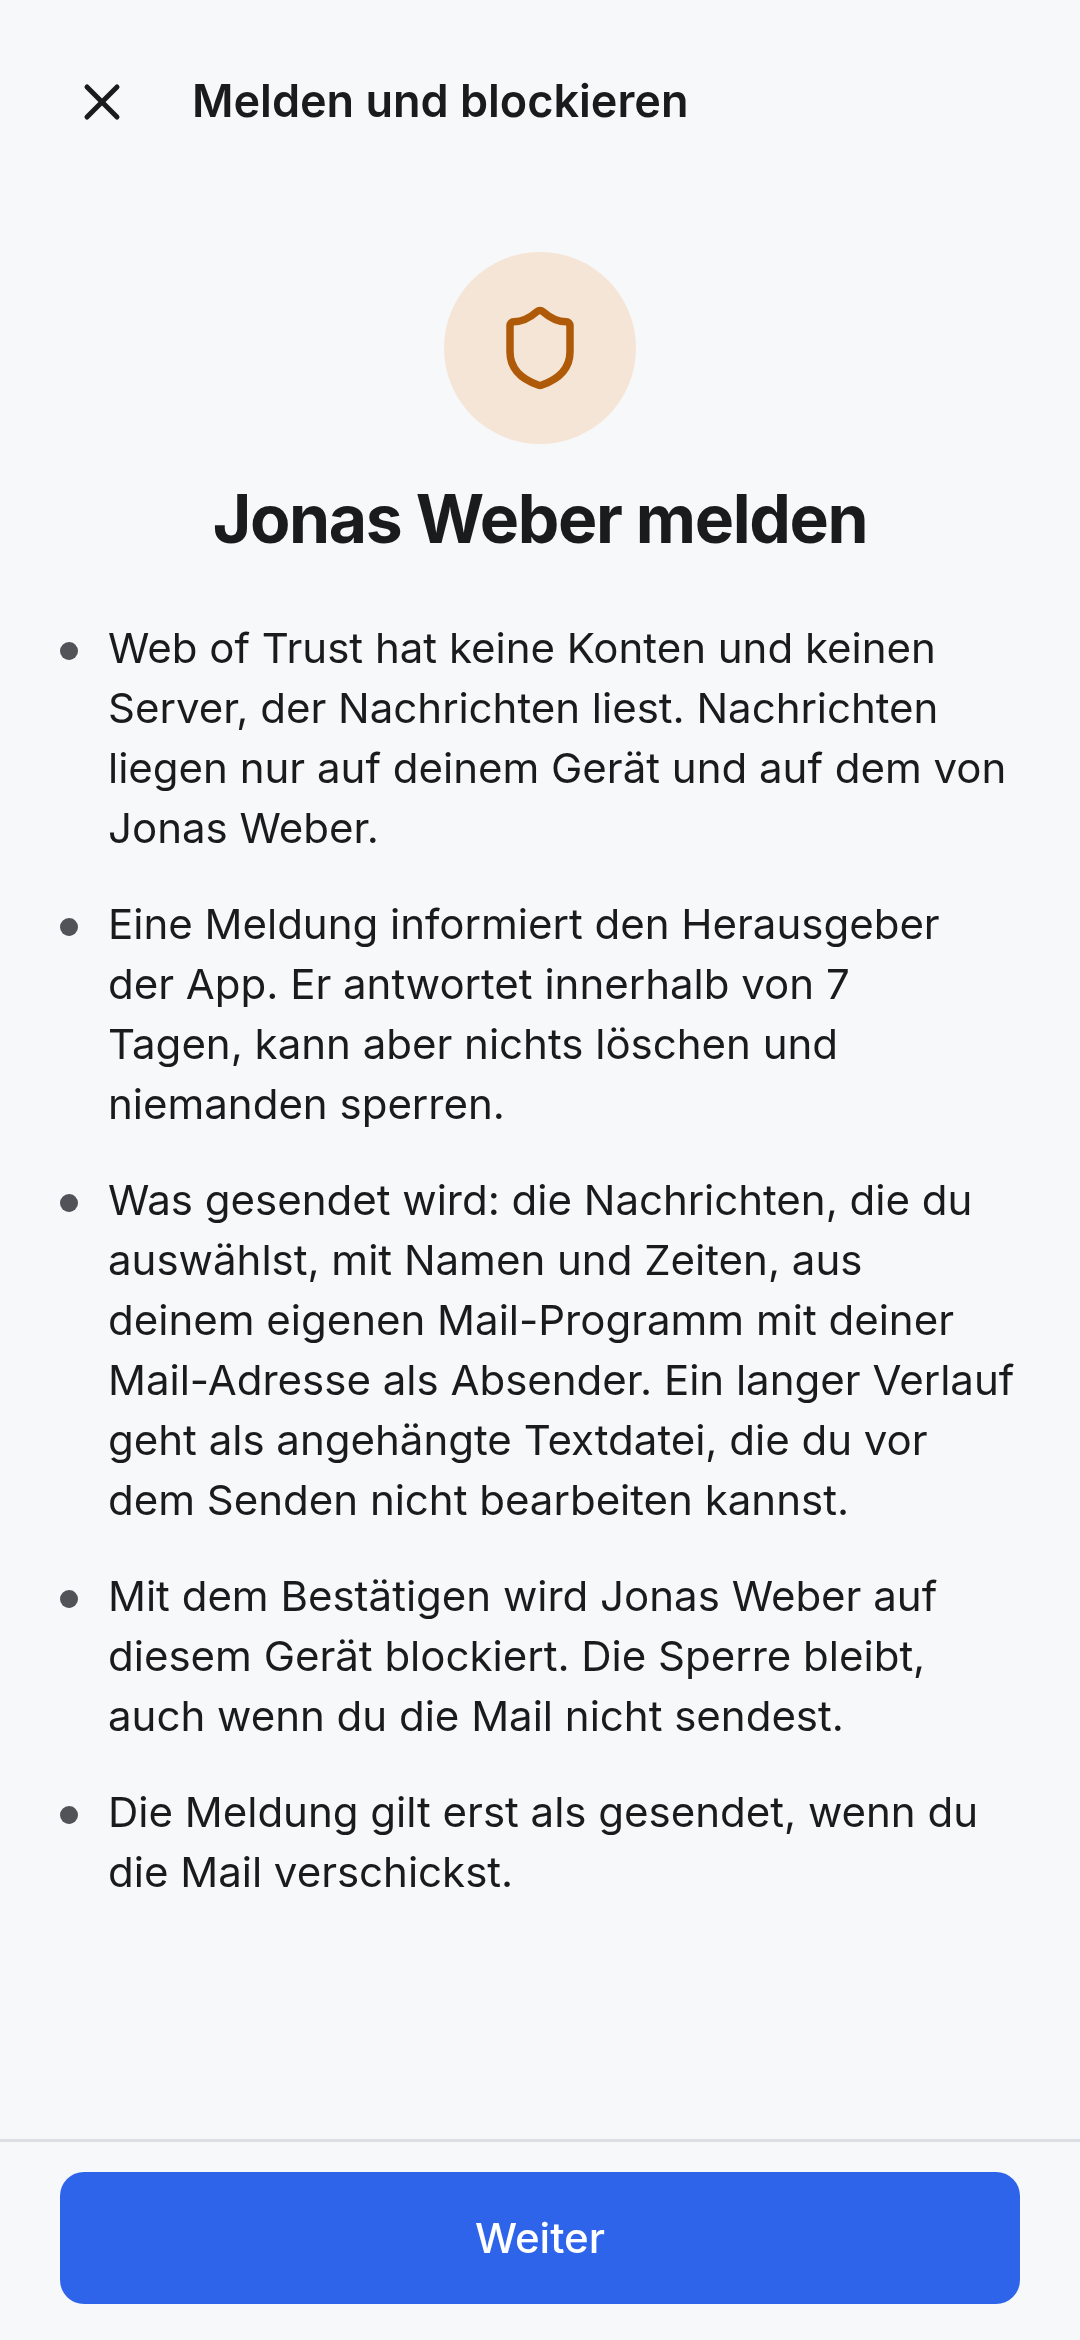
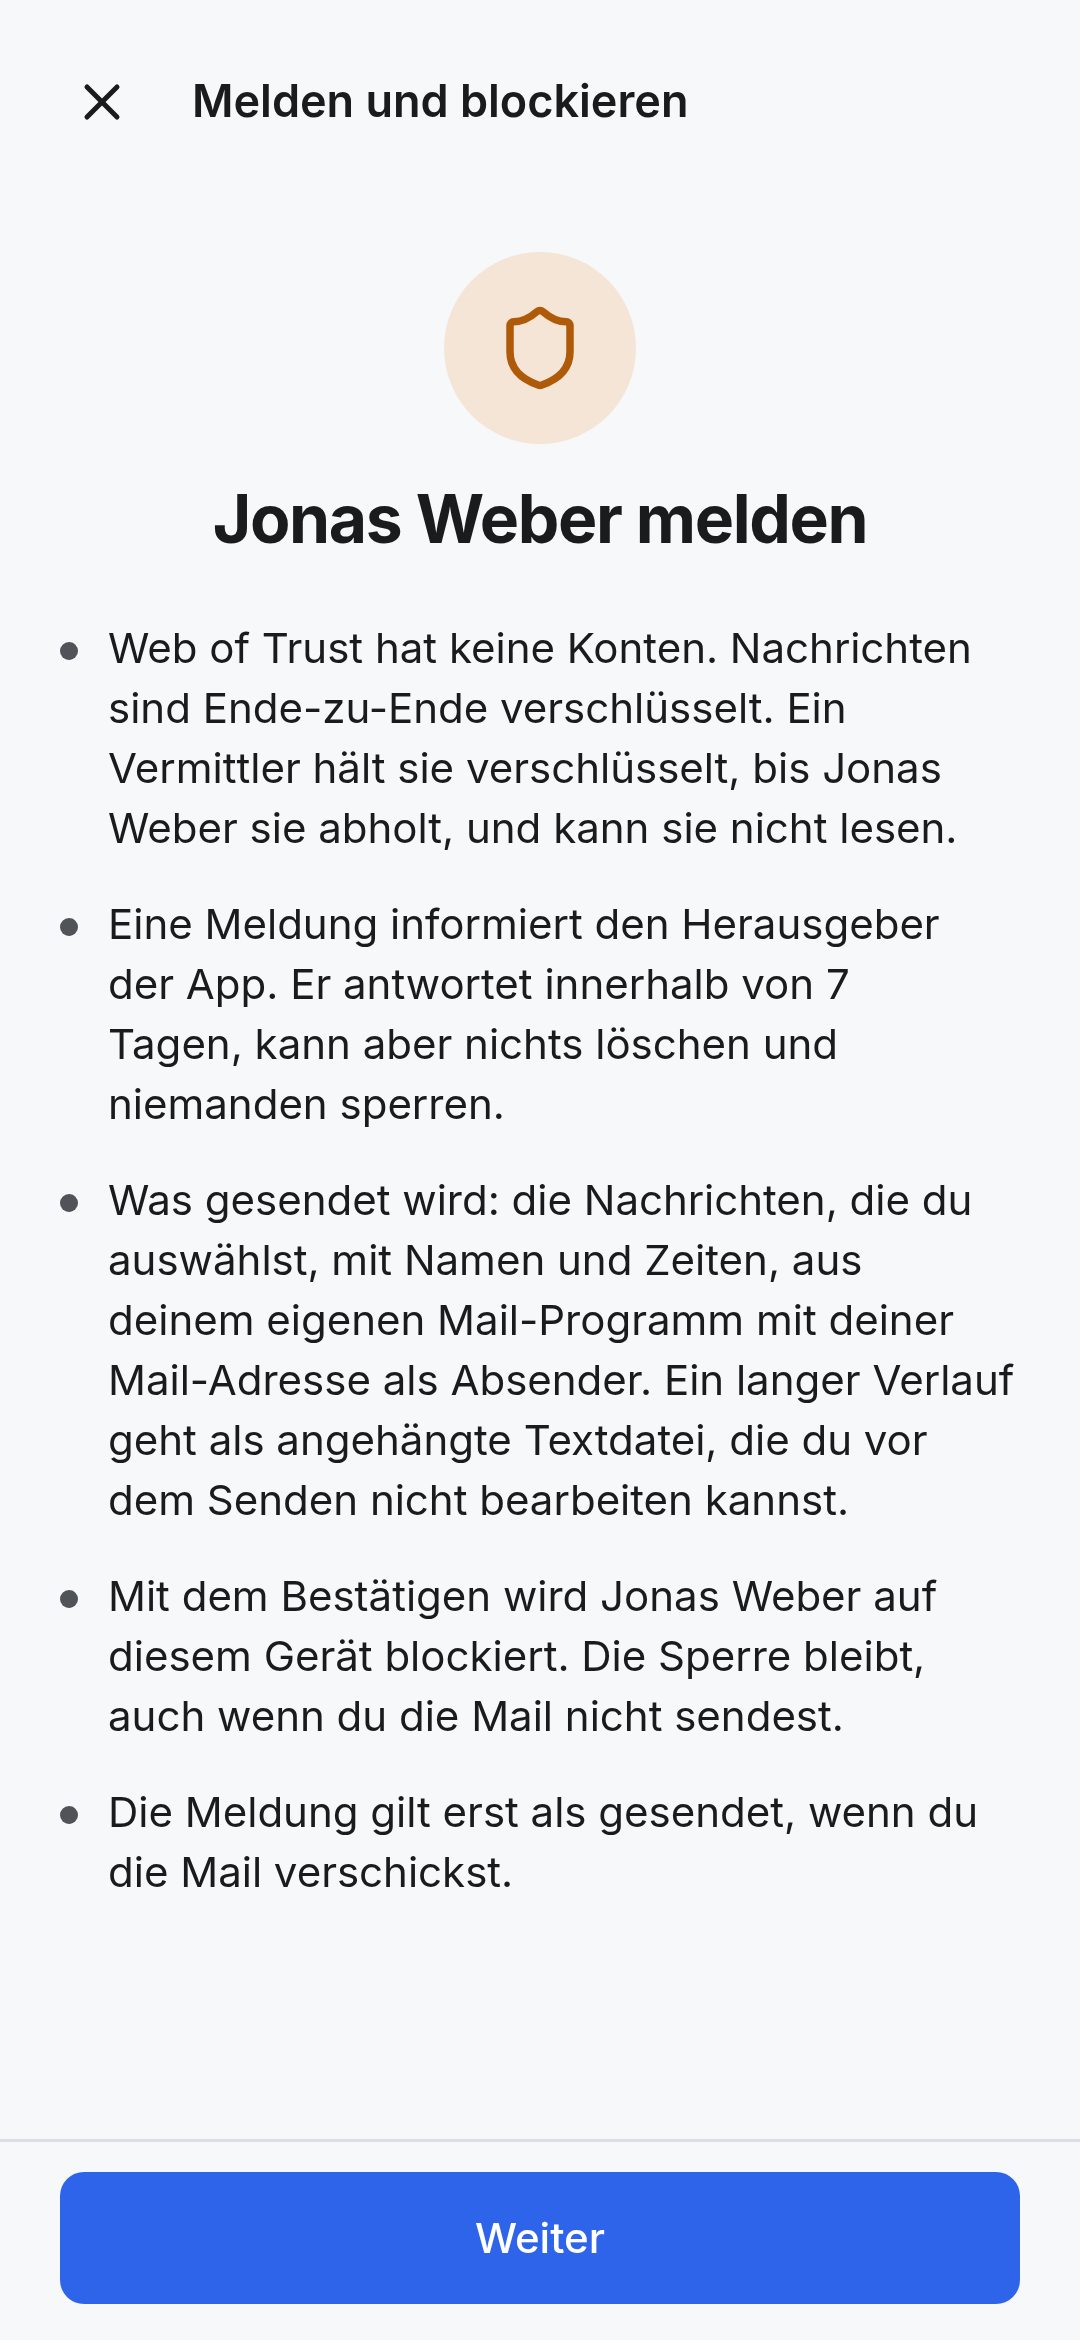
fix(wot-v3): report notice says the mediator holds messages encrypted
The report notice claimed messages lie only on the two devices. The
mediator holds them encrypted until the recipient collects them (at most
7 days) and cannot read them. Notice (de/en) and privacy policy section 7
now say so; e2e baselines of the notice and the store screenshots are
retaken (04 shows the new text; 01-03 differ by QR code and times).

Closes #459

Changed region(s): [[0.0917, 0.2496, 0.9167, 0.3744]]

diff --git a/apps/landing/public/privacy.html b/apps/landing/public/privacy.html
@@ -134,7 +134,7 @@ Reports about content and abuse: report@real-life.org</p>
 
 <h2>7. <span class="tag">Version 3</span> Reporting and blocking</h2>
 <p><strong>Reporting.</strong> Every contact has “Report and block”. You select up to 20 messages and see the email before it is created. The app opens a draft to report@real-life.org in your email app. It contains the selected messages with text, time sent and time received, and the name under which you saved the contact; for a long conversation as an attached text file. The app itself sends nothing. The report counts as sent only when you send the email from your own address. A report therefore contains data about the person reported.</p>
-<p>Reports are read by Anton Tranelis. We answer within 7 days and delete a report from our mailbox 90 days after our answer. Backups of our email provider follow its own retention periods. There is no server holding content; we cannot delete content from other people's devices or ban anyone.</p>
+<p>Reports are read by Anton Tranelis. We answer within 7 days and delete a report from our mailbox 90 days after our answer. Backups of our email provider follow its own retention periods. The mediator holds messages only encrypted and cannot read them (section 5.2); we cannot delete content from other people's devices or ban anyone.</p>
 <p><strong>Blocking</strong> happens only on your device. From then on the app discards messages, invitations and introductions from the blocked person. Blocking sends nothing; the person is not told.</p>
 <p><span class="tag">Version 0.x</span> Version 0.x has no reporting or blocking function. Write to report@real-life.org.</p>
 
@@ -247,7 +247,7 @@ Meldungen zu Inhalten und Missbrauch: report@real-life.org</p>
 
 <h2>7. <span class="tag">Version 3</span> Melden und Blockieren</h2>
 <p><strong>Melden.</strong> Bei jedem Kontakt gibt es „Melden und blockieren“. Du wählst bis zu 20 Nachrichten aus und siehst die Mail, bevor sie entsteht. Die App öffnet in deinem Mail-Programm einen Entwurf an report@real-life.org. Er enthält die ausgewählten Nachrichten mit Text, Sende- und Empfangszeit und dem Namen, unter dem du den Kontakt gespeichert hast; bei langem Verlauf als angehängte Textdatei. Die App selbst sendet nichts. Gemeldet ist erst, wenn du die Mail mit deiner Mail-Adresse als Absender verschickst. Eine Meldung enthält also Daten der gemeldeten Person.</p>
-<p>Meldungen liest Anton Tranelis. Wir antworten innerhalb von 7 Tagen und löschen eine Meldung 90 Tage nach der Antwort aus unserem Postfach. Sicherungen unseres Mail-Anbieters folgen dessen Fristen. Es gibt keinen Server mit Inhalten; wir können keine Inhalte auf fremden Geräten löschen und niemanden sperren.</p>
+<p>Meldungen liest Anton Tranelis. Wir antworten innerhalb von 7 Tagen und löschen eine Meldung 90 Tage nach der Antwort aus unserem Postfach. Sicherungen unseres Mail-Anbieters folgen dessen Fristen. Der Mediator hält Nachrichten nur verschlüsselt und kann sie nicht lesen (Abschnitt 5.2); wir können keine Inhalte auf fremden Geräten löschen und niemanden sperren.</p>
 <p><strong>Blockieren</strong> geschieht nur auf deinem Gerät. Nachrichten, Einladungen und Vorstellungen der blockierten Person verwirft die App ab dann. Das Blockieren sendet nichts; die Person erfährt davon nichts.</p>
 <p><span class="tag">Version 0.x</span> Version 0.x hat keine Funktion zum Melden oder Blockieren. Schreib an report@real-life.org.</p>
 

diff --git a/apps/wot-v3/tests/report-catalog.test.tsx b/apps/wot-v3/tests/report-catalog.test.tsx
@@ -18,6 +18,14 @@ describe('report screen catalog', () => {
     expect(await screen.findByText(entry.override.flow === 'report' && entry.override.blocked ? 'Report' : 'Report and block')).toBeInTheDocument()
   })
 
+  it('the info page tells that the mediator holds messages encrypted until collected, not that they lie only on the devices (#459)', async () => {
+    window.__wotReportSample = { name: REPORT_SAMPLE_NAME, messages: REPORT_SAMPLE_MESSAGES }
+    const entry = REPORT_CATALOG.find((e) => e.id === 'report-info')!
+    render(<App composition={{ ...composeScenario(iiw), flowOverride: entry.override }} />)
+    expect(await screen.findByText(/A mediator holds them encrypted until .* collects them, and cannot read them\./)).toBeInTheDocument()
+    expect(screen.queryByText(/only on your device/)).toBeNull()
+  })
+
   it('a blocked contact: the choice notes the hidden messages, the review asks only for the mail (Anton 21.10.)', async () => {
     window.__wotReportSample = { name: REPORT_SAMPLE_NAME, messages: REPORT_SAMPLE_MESSAGES }
     const entry = REPORT_CATALOG.find((e) => e.id === 'report-selecting-blocked')!

diff --git a/apps/wot-v3/src/i18n/de.ts b/apps/wot-v3/src/i18n/de.ts
@@ -286,7 +286,7 @@ export const de: Translations = {
     action: 'Melden und blockieren',
     actionBlocked: 'Melden',
     infoTitle: '{name} melden',
-    infoApp: 'Web of Trust hat keine Konten und keinen Server, der Nachrichten liest. Nachrichten liegen nur auf deinem Gerät und auf dem von {name}.',
+    infoApp: 'Web of Trust hat keine Konten. Nachrichten sind Ende-zu-Ende verschlüsselt. Ein Vermittler hält sie verschlüsselt, bis {name} sie abholt, und kann sie nicht lesen.',
     infoInform: 'Eine Meldung informiert den Herausgeber der App. Er antwortet innerhalb von 7 Tagen, kann aber nichts löschen und niemanden sperren.',
     infoSent: 'Was gesendet wird: die Nachrichten, die du auswählst, mit Namen und Zeiten, aus deinem eigenen Mail-Programm mit deiner Mail-Adresse als Absender. Ein langer Verlauf geht als angehängte Textdatei, die du vor dem Senden nicht bearbeiten kannst.',
     infoBlock: 'Mit dem Bestätigen wird {name} auf diesem Gerät blockiert. Die Sperre bleibt, auch wenn du die Mail nicht sendest.',

diff --git a/apps/wot-v3/src/i18n/en.ts b/apps/wot-v3/src/i18n/en.ts
@@ -286,7 +286,7 @@ export const en = {
     action: 'Report and block',
     actionBlocked: 'Report',
     infoTitle: 'Report {name}',
-    infoApp: 'Web of Trust has no accounts and no server that reads messages. Messages are only on your device and on {name}’s.',
+    infoApp: 'Web of Trust has no accounts. Messages are end-to-end encrypted. A mediator holds them encrypted until {name} collects them, and cannot read them.',
     infoInform: 'A report informs the publisher of the app. They answer within 7 days, but they cannot delete anything and cannot block anyone.',
     infoSent: 'What is sent: the messages you choose, with names and times, from your own mail app with your mail address as sender. A long conversation goes as an attached text file, which you cannot edit before sending.',
     infoBlock: 'When you confirm, {name} is blocked on this device. The block stays even if you do not send the mail.',
